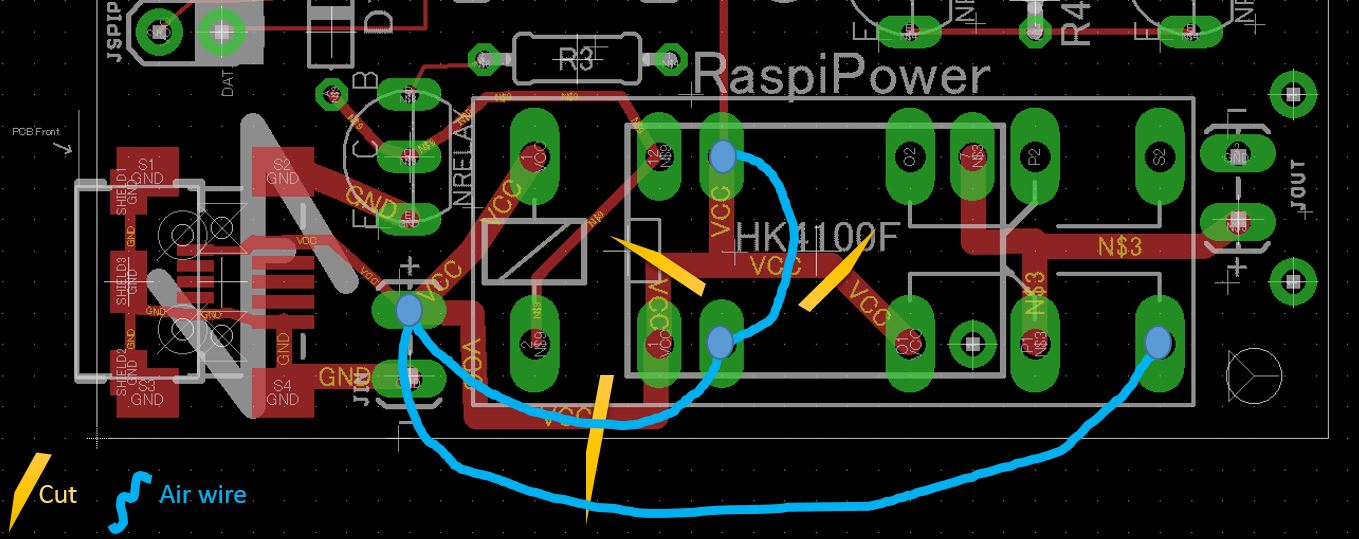
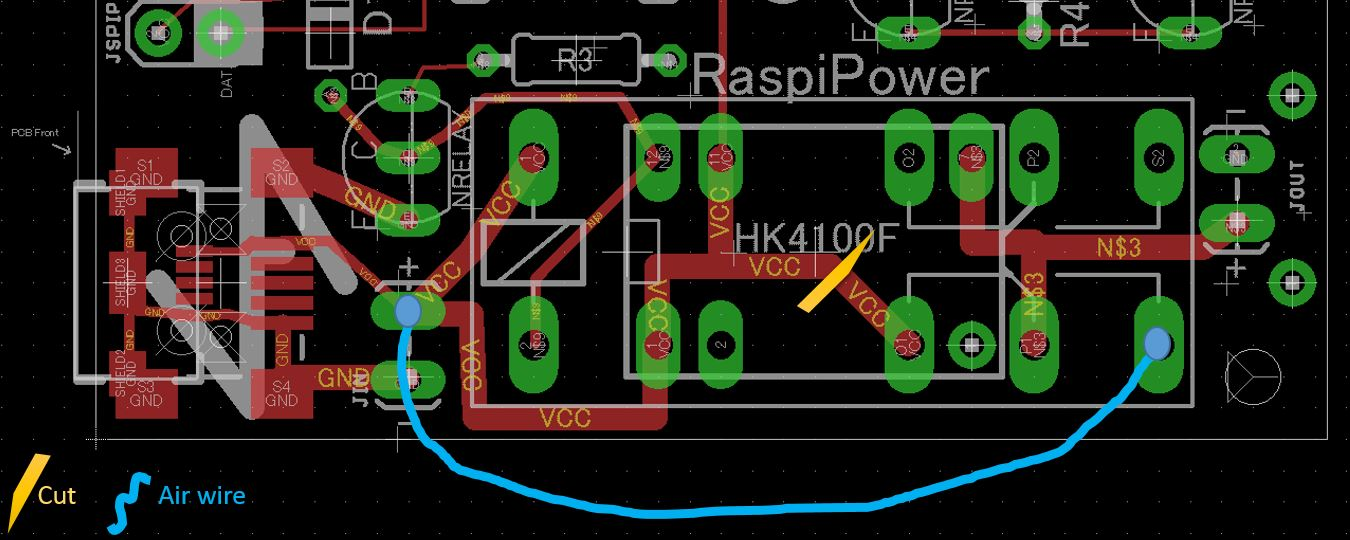
autocommit 2017/10/11@06:06:02

diff --git a/static/raspipower.html b/static/raspipower.html
@@ -5,11 +5,13 @@ Target is to use that in my [[Bedside mood companion]] project but more on that 
 <h2>Principle</h2>
 <h2>Issues</h2>
 <h3>Version 1.0</h3>
-I am a f#$&ing  idiot, I wired the version 1.0 as the relay closed by default. Need to cut some tracks and airwire it to work ... I feel stupid.<br/>
+I am a f#$&ing  idiot, I wired the version 1.0 as the relay closed by default and I used the wrong part for the HK4100F relay. Need to cut some tracks and airwire it to work with the big F4052 relay  ... I feel stupid.<br/>
 <img src="/files/raspipowerboard1_fix10.jpg" width="1000" /><br/>
 Need to do the following:
-* 3 trace puts on the PCB front: there's space, should be ok.
-* minimum 2 airwire to connect the incoming USB VCC to the right relay pin as well as the top part of the circuit
+* A trace cuts on the PCB front: there's space, should be ok.
+* Some airwire to connect the incoming USB VCC to the right relay pin as well as the top part of the circuit
+<h3>Version 1.2</h3>
+I skipped the v1.1, this one should work with both relays.
 <h1>Implementation</h1>
 <h2>Bill of materials</h2>
 <table>
